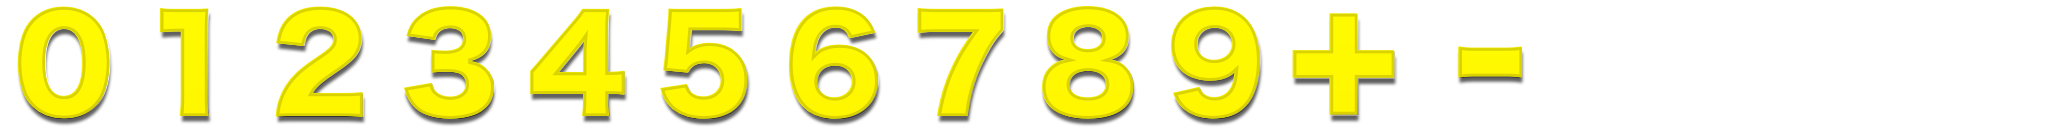
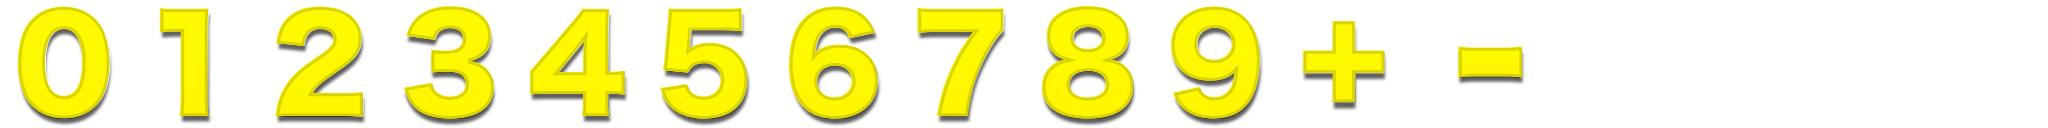
バッテリー数字の+記号を調整

Changed region(s): [[0.625, 0.0938, 0.6875, 0.9688]]

diff --git a/src/js/game-object/recover-battery/view/player-recover-battery-view.js b/src/js/game-object/recover-battery/view/player-recover-battery-view.js
@@ -15,6 +15,8 @@ import {
 export const MESH_SIZE = 100;
 export const MAX_ANIMATION = 16;
 export const MAX_BATTERY = 9;
+export const NUMBER_X = 20;
+export const SIGN_PADDING = 80;
 
 /** プレイヤーのバッテリー回復*/
 export class PlayerRecoverBatteryView implements RecoverBatteryView {
@@ -35,7 +37,7 @@ export class PlayerRecoverBatteryView implements RecoverBatteryView {
       height: MESH_SIZE,
       maxAnimation: MAX_ANIMATION,
     });
-    this._signMesh.getObject3D().position.x = -MESH_SIZE / 2;
+    this._signMesh.getObject3D().position.x = NUMBER_X - SIGN_PADDING;
     this._group.add(this._signMesh.getObject3D());
 
     this._numberMesh = new HorizontalAnimationMesh({
@@ -45,7 +47,7 @@ export class PlayerRecoverBatteryView implements RecoverBatteryView {
       height: MESH_SIZE,
       maxAnimation: MAX_ANIMATION,
     });
-    this._numberMesh.getObject3D().position.x = MESH_SIZE /2;
+    this._numberMesh.getObject3D().position.x = NUMBER_X;
     this._group.add(this._numberMesh.getObject3D());
   }
 
